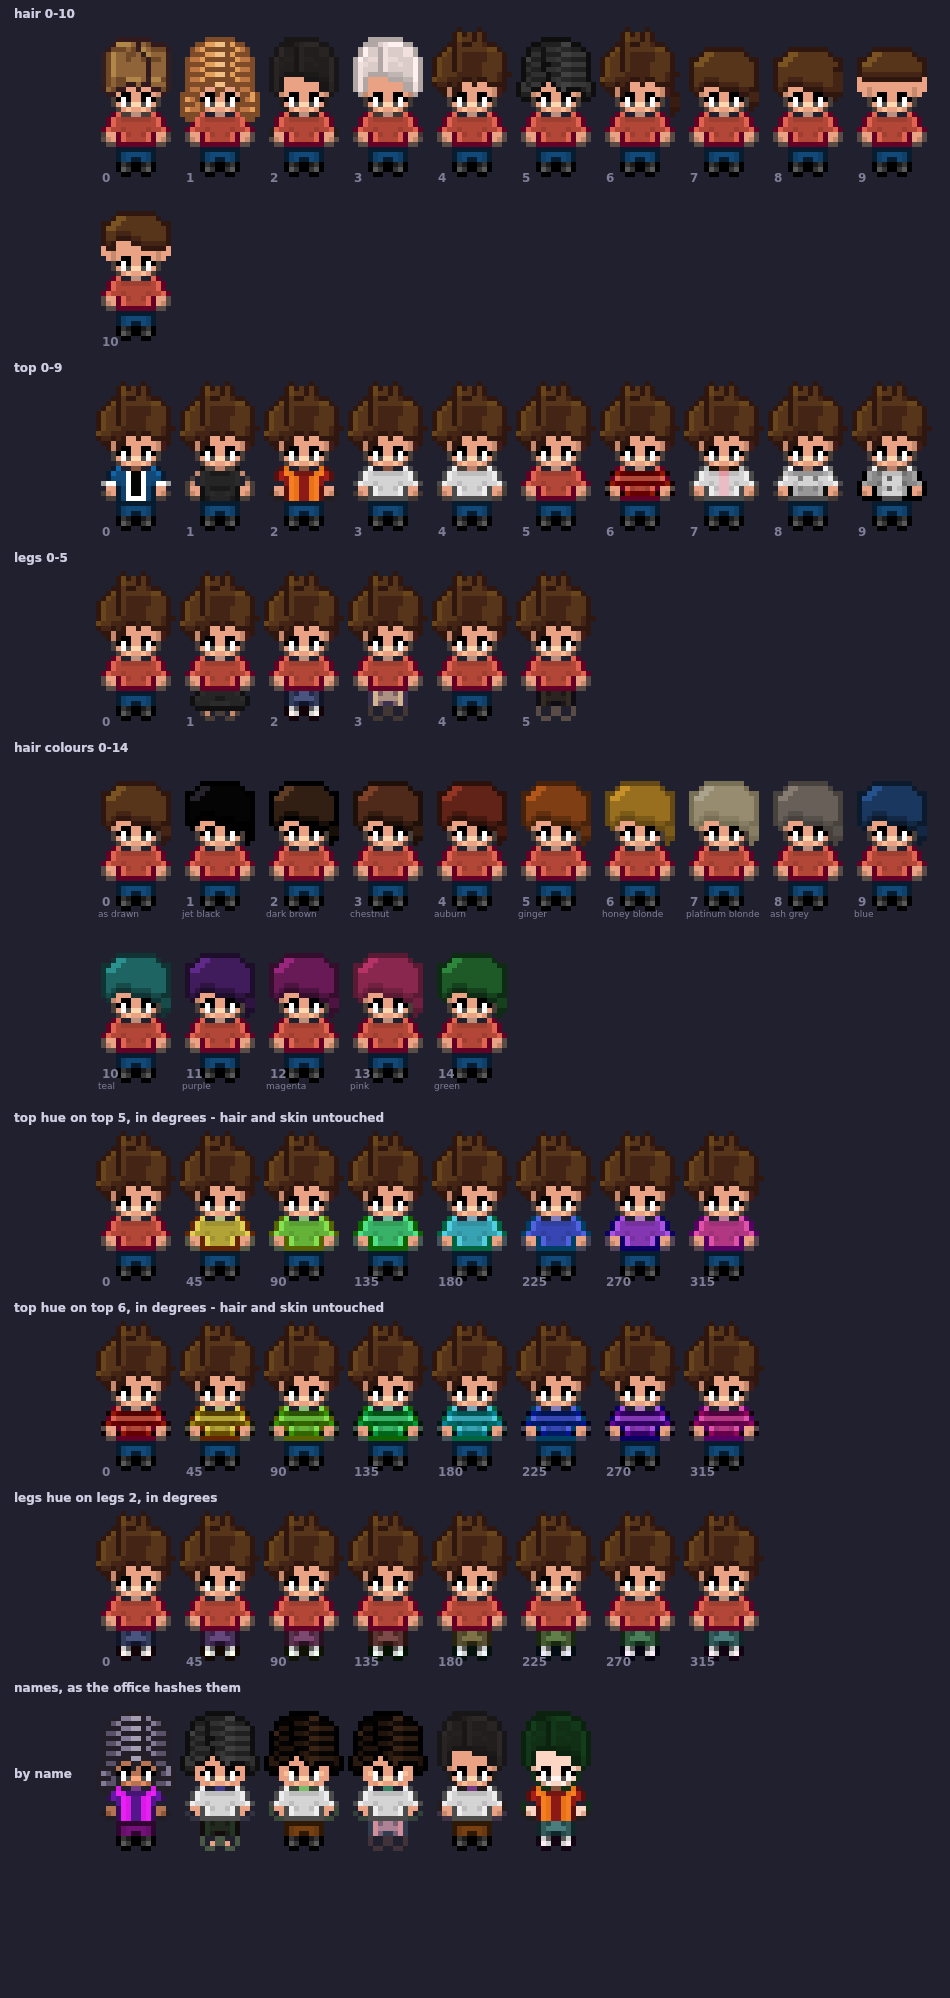
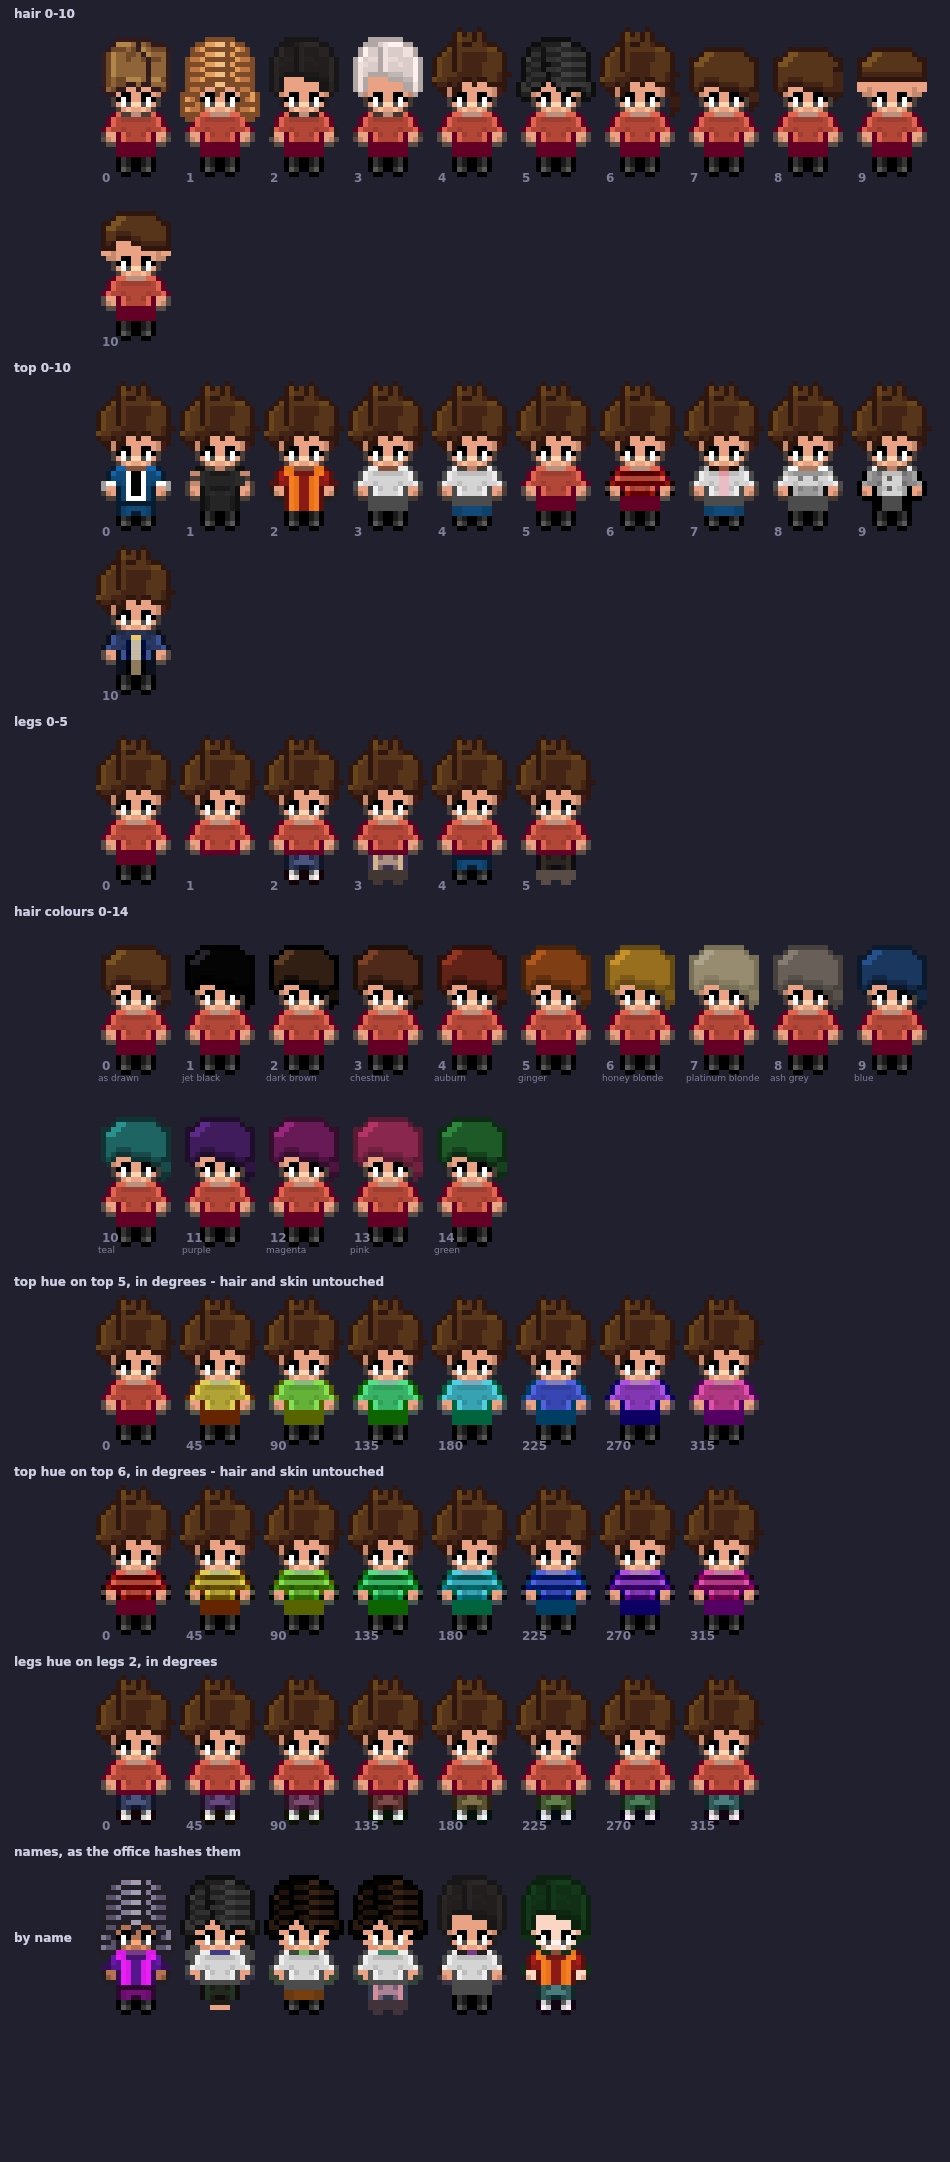
A cloak for the office: top 10, drawn for Merlon (v1.46.0)
Deep blue, hood down, open over a pale tunic with a gold clasp. Drawn off
the red jumper by make-tops.mjs; the dye skips neutrals and the page edge
so glasses and the reading page keep their colours. LOOKS.md and the
parts catalogue list it.

Claude-Session: https://claude.ai/code/session_01Muht9tqMTM1eo7MeVE1UbY

diff --git a/CHANGELOG.md b/CHANGELOG.md
@@ -1,5 +1,9 @@
 # Changelog
 
+## v1.46.0
+
+- A new top, 10: a deep blue cloak with the hood down, open over a pale tunic with a gold clasp. Merlon asked for it - PixelTowerWars is high fantasy and Mix suggested the look could lean that way, and every top in the catalogue was modern clothing. Hood down so the hair stays readable across a room. The cloak takes `topHue`; the tunic, the clasp, and the glasses and page that share the layer at the desk keep their colours. Drawn by `renderer/tools/make-tops.mjs` off the red jumper like the others, so it fits every frame; `docs/LOOKS.md` and the catalogue list it.
+
 ## v1.45.9
 
 - A look chosen while the tablet is running shows on the tablet at once. The relay broadcasts every choice (`looksLoaded`) and the browser applied it straight away, but the tablet's engine only read looks when it started - so every sibling's choice reached the wall at the next deploy, and Merlon's, made today, would have waited for one.

diff --git a/docs/LOOKS.md b/docs/LOOKS.md
@@ -119,6 +119,7 @@ end; Plumb picked a grey sweatshirt for precisely that reason.
 | 7 | white shirt and tie - the tie takes the hue, the shirt does not |
 | 8 | grey hoodie with a front pocket - steady |
 | 9 | waistcoat over a white shirt - steadiest of all |
+| 10 | deep blue cloak, hood down, open over a pale tunic with a gold clasp - drawn for Merlon; the cloak takes the hue, the tunic and clasp keep theirs |
 
 **Legs** (`legs`), dyed by `legsHue` the same way - the catalogue demonstrates it on legs 2.
 
